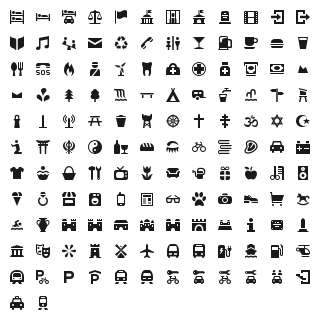
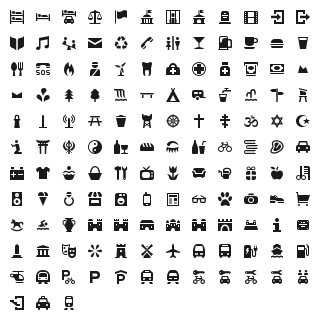
added beverages shop (idea by kocio-pl)

diff --git a/font/osmic-preview.html b/font/osmic-preview.html
@@ -169,6 +169,7 @@
 .oc-bar:before,
 .oc-beauty:before,
 .oc-bench:before,
+.oc-beverages:before,
 .oc-bicycle:before,
 .oc-biergarten:before,
 .oc-books:before,
@@ -317,6 +318,7 @@
 .oc-bar:before { content: "\f106"; }
 .oc-beauty:before { content: "\f183"; }
 .oc-bench:before { content: "\f107"; }
+.oc-beverages:before { content: "\f187"; }
 .oc-bicycle:before { content: "\f108"; }
 .oc-biergarten:before { content: "\f109"; }
 .oc-books:before { content: "\f10a"; }
@@ -457,7 +459,7 @@
   <body class="characters-off">
     <div id="page" class="container">
       <header>
-        <h1>osmic contains 134 glyphs:</h1>
+        <h1>osmic contains 135 glyphs:</h1>
         <a onclick="toggleCharacters(); return false;" href="#">Toggle Preview Characters</a>
       </header>
 
@@ -576,6 +578,19 @@
         <div class="usage">
           <input class="class" type="text" readonly="readonly" onClick="this.select();" value=".oc-bench" />
           <input class="point" type="text" readonly="readonly" onClick="this.select();" value="&amp;#xf107;" />
+        </div>
+      </div>
+      
+      <div class="glyph">
+        <div class="preview-glyphs">
+          <span class="step size-12"><span class="letters">Pp</span><i id="oc-beverages" class="oc-beverages"></i></span><span class="step size-14"><span class="letters">Pp</span><i id="oc-beverages" class="oc-beverages"></i></span><span class="step size-16"><span class="letters">Pp</span><i id="oc-beverages" class="oc-beverages"></i></span><span class="step size-18"><span class="letters">Pp</span><i id="oc-beverages" class="oc-beverages"></i></span><span class="step size-21"><span class="letters">Pp</span><i id="oc-beverages" class="oc-beverages"></i></span><span class="step size-24"><span class="letters">Pp</span><i id="oc-beverages" class="oc-beverages"></i></span><span class="step size-36"><span class="letters">Pp</span><i id="oc-beverages" class="oc-beverages"></i></span><span class="step size-48"><span class="letters">Pp</span><i id="oc-beverages" class="oc-beverages"></i></span><span class="step size-60"><span class="letters">Pp</span><i id="oc-beverages" class="oc-beverages"></i></span><span class="step size-72"><span class="letters">Pp</span><i id="oc-beverages" class="oc-beverages"></i></span>
+        </div>
+        <div class="preview-scale">
+          <span class="step">12</span><span class="step">14</span><span class="step">16</span><span class="step">18</span><span class="step">21</span><span class="step">24</span><span class="step">36</span><span class="step">48</span><span class="step">60</span><span class="step">72</span>
+        </div>
+        <div class="usage">
+          <input class="class" type="text" readonly="readonly" onClick="this.select();" value=".oc-beverages" />
+          <input class="point" type="text" readonly="readonly" onClick="this.select();" value="&amp;#xf187;" />
         </div>
       </div>
       

diff --git a/font/osmic.css b/font/osmic.css
@@ -32,6 +32,7 @@
 .oc-bar:before,
 .oc-beauty:before,
 .oc-bench:before,
+.oc-beverages:before,
 .oc-bicycle:before,
 .oc-biergarten:before,
 .oc-books:before,
@@ -180,6 +181,7 @@
 .oc-bar:before { content: "\f106"; }
 .oc-beauty:before { content: "\f183"; }
 .oc-bench:before { content: "\f107"; }
+.oc-beverages:before { content: "\f187"; }
 .oc-bicycle:before { content: "\f108"; }
 .oc-biergarten:before { content: "\f109"; }
 .oc-books:before { content: "\f10a"; }
